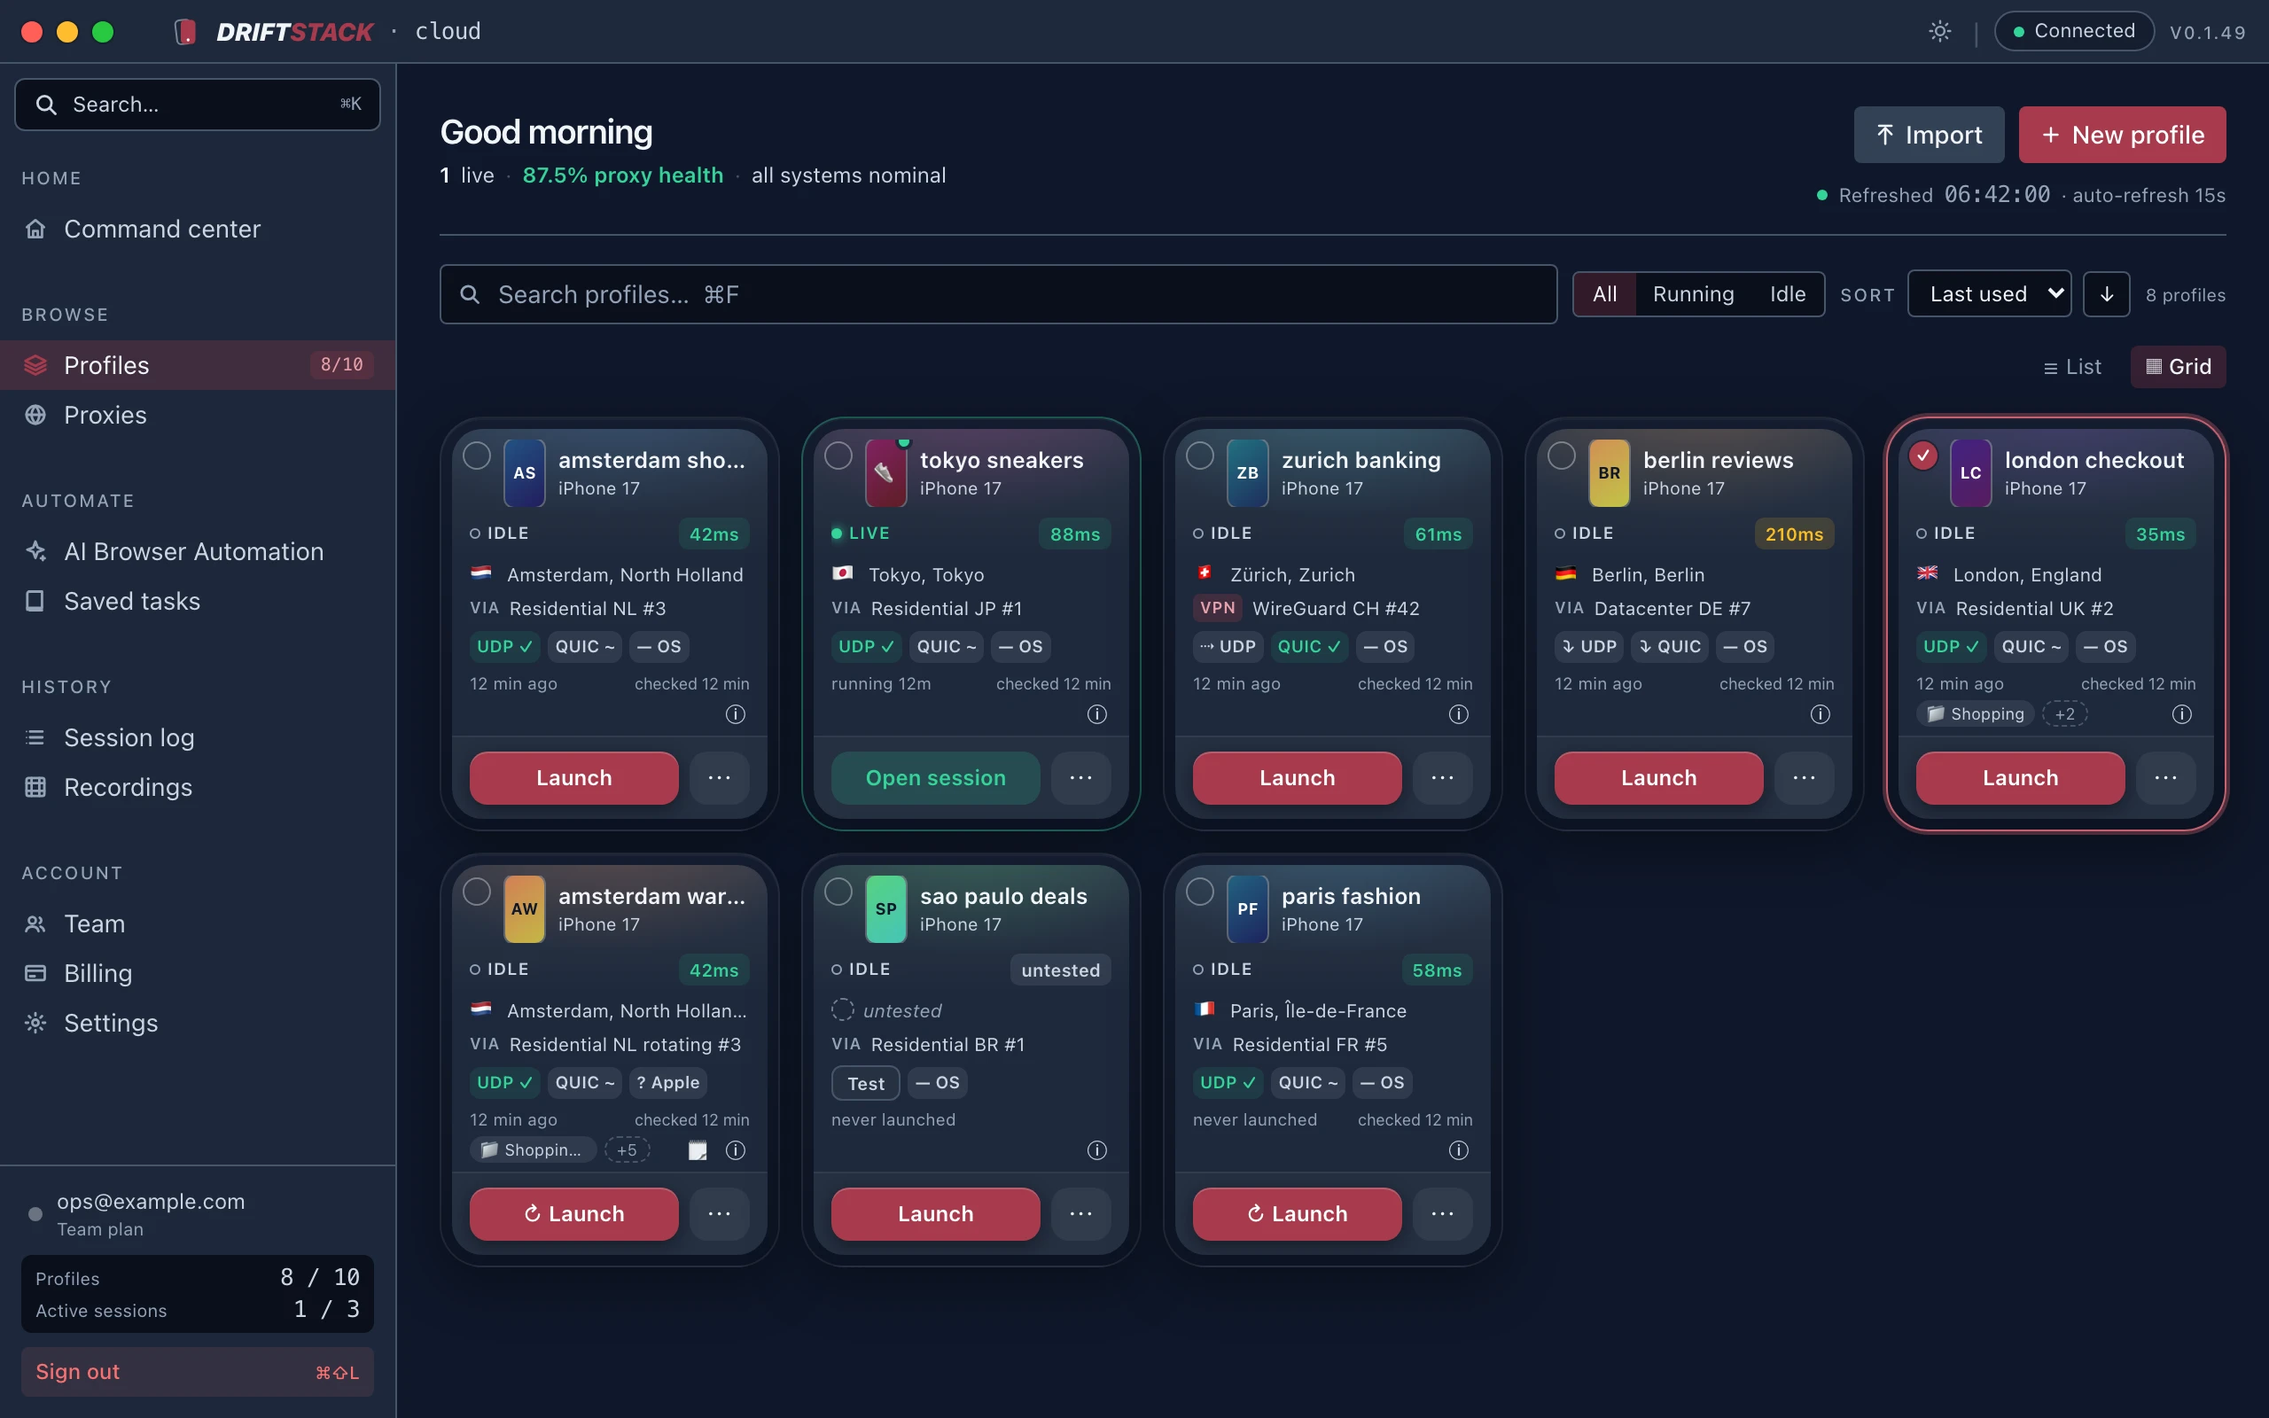
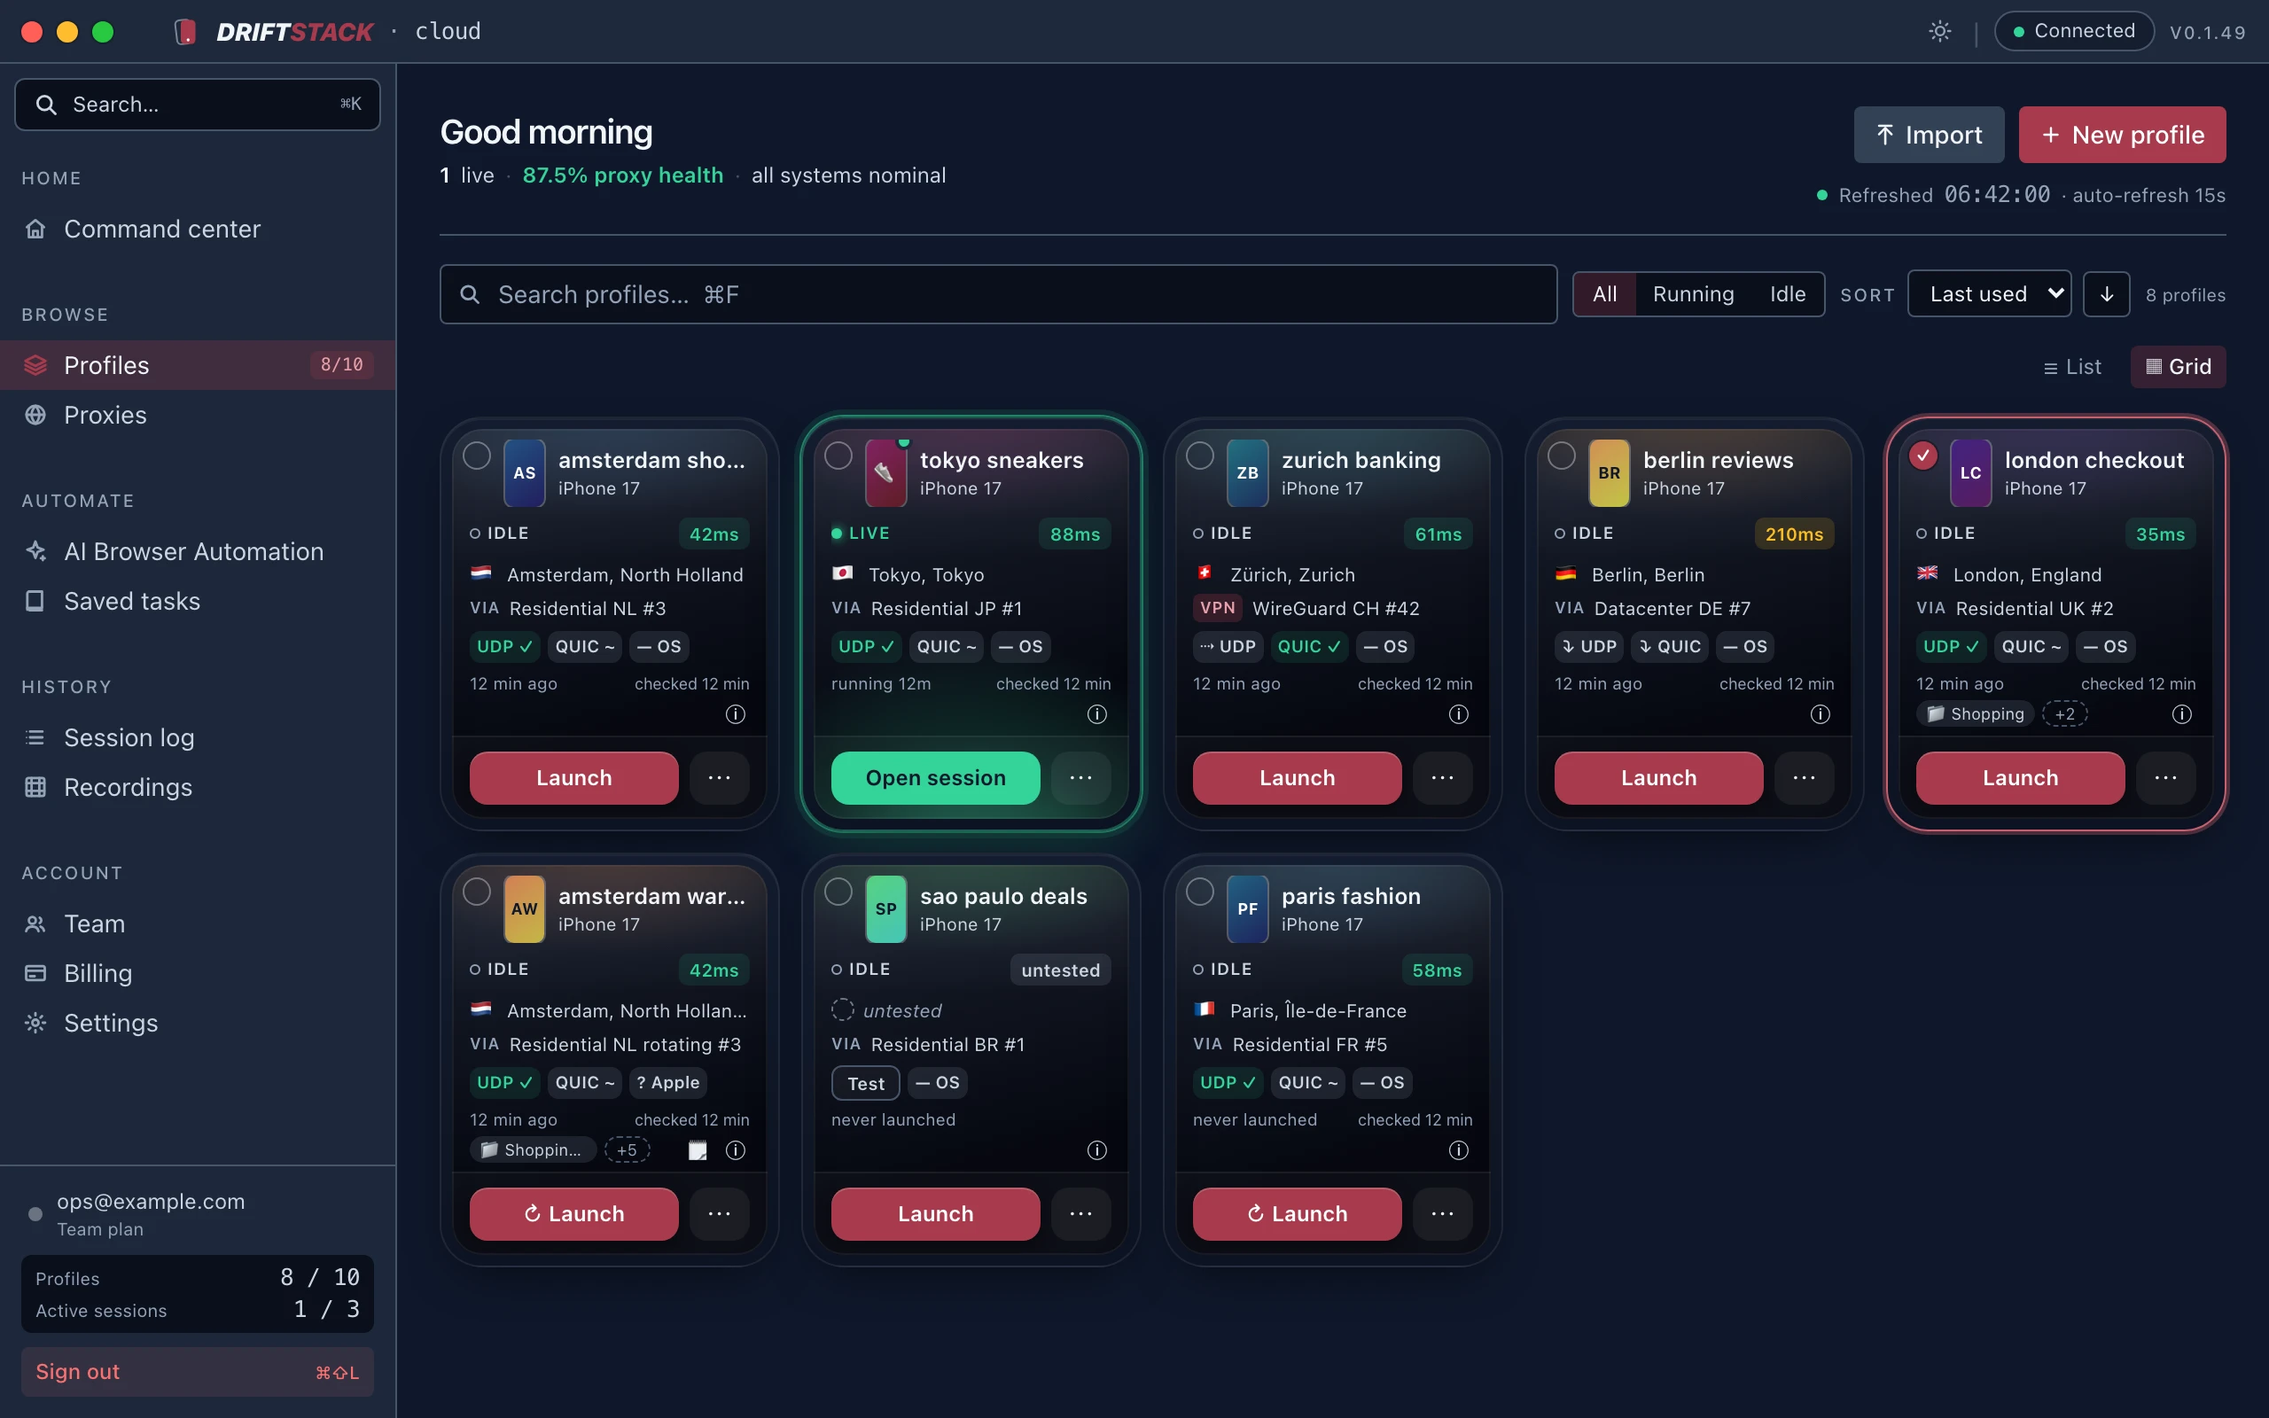
feat(gui): a profile card is a lit stage, and only the live one breathes
The Profiles grid is the product's front door and its cards were flat: an inline
slate gradient, a static identity wash, a hairline ring, state only in a text
pill. Each card now wears the AI view's devices on its own scale. The phone
screen is dark glass in both themes. The card carries one state light, read by
its rim, by a pool of light rising in the glass and by a floor glow on the page
beneath it: the ready colour when a session is live, the accent while launching
or testing, the attention colour when the proxy failed its last test, and no
light at all when the card rests. Only a live card breathes, and only its pool,
by opacity alone, so a grid of twenty idle cards animates nothing and the global
reduced-motion clamp stills the one that does. Colour is never the only signal:
the health pill, the status row and the dock's label say the same thing.

The live card's button becomes solid ready with the surface colour as its ink,
the AI view's own status stamp, because the tint it wore measured under the
contrast bar in the light theme once the card had a stage. The card's shadow is
written into the framework's own shadow slot rather than box-shadow, so the
selected state's ring still composes over it; the card's frame test now pins the
gradient from the stylesheet and the light attribute per state. The card gate
gains one documented allowance: the decorative floor light may sit past the
card's edge, because it carries nothing a customer could lose. The site's
[…]

Changed region(s): [[0.1875, 0.3438, 1.0, 0.5938], [0.1875, 0.625, 0.6562, 0.9062], [0.4688, 0.2812, 0.5, 0.3125]]

diff --git a/apps/gui-client/src/styles/index.css b/apps/gui-client/src/styles/index.css
@@ -4744,3 +4744,120 @@
    nothing further to declare here. It already tracks `--sim-light-rgb`, so
    it dims/mutes on `[data-sim-state='ended']` for free, the same way the
    rim and the outer glow do, with no separate opacity rule needed. */
+
+/* ═════ the Profiles card as a stage — redesign round 2 ════════════════════
+   The AI view drew the phone's state as light and gave every surface one lift;
+   the simulator window followed. The Profiles grid is the product's front
+   door, and its cards were flat: an inline slate gradient, a static identity
+   wash, a hairline ring, state only in a text pill. Here the card wears the
+   same devices, re-expressed on the card's own scale:
+
+   · `data-card-light` on the card is ONE variable read by the rim, the glow
+     under the screen and the floor pool — the `--sim-light-rgb` idea. live =
+     ready, launching/testing = accent (something is happening), a broken proxy
+     = busy (attention), idle = none (the card RESTS: no light, no motion).
+   · `.pf-screen` is a dark glass stage in BOTH themes (the AI view's room
+     rule): a slate gradient, an inset rim, and — only with a light — a pool
+     rising from the bottom edge in the state colour.
+   · only a LIVE card breathes, and only its pool (one compositor layer per
+     live card, none for the rest — a grid of twenty idle cards animates
+     nothing). The keyframe is `ds-ai-breathe-soft` BY NAME, so the global
+     reduced-motion clamp stills it like every other breath.
+   · every colour is a token on the mode/accent axes; the only literals are
+     the stage's own neutral darks and the black/white of a shadow (the same
+     rule `.ai-stage` and `.sim-device` follow, and the same guard reads it).
+   Nothing here moves a box: the card's padding, radius, the 220px screen and
+   the fixed body rows are exactly what the layout gates measured before. */
+.pf-card {
+  --pf-light-rgb: 0 0 0;
+  --pf-light-alpha: 0;
+  background: linear-gradient(180deg, rgb(20 28 47), rgb(12 19 34));
+  /* The shadow is written into Tailwind's OWN shadow slot, not box-shadow: the
+     card's selected state is a `ring-2` (a box-shadow layer Tailwind composes
+     from `--tw-ring-shadow` + `--tw-shadow`), and a plain box-shadow here
+     would erase it — the exact regression the card's frame test pins. The
+     hover utility sets the same slot with higher specificity, so the deepening
+     hover shadow still wins on hover. */
+  --tw-shadow:
+    inset 0 1px 0 rgb(255 255 255 / 0.05), 0 10px 30px -14px rgb(0 0 0 / 0.8),
+    0 0 0 1px rgb(var(--pf-light-rgb) / calc(var(--pf-light-alpha) * 0.55)),
+    0 0 0 4px rgb(var(--pf-light-rgb) / calc(var(--pf-light-alpha) * 0.12)),
+    0 16px 34px -16px rgb(var(--pf-light-rgb) / calc(var(--pf-light-alpha) * 0.45));
+  --tw-shadow-colored: var(--tw-shadow);
+  transition:
+    transform 150ms var(--ai-ease),
+    box-shadow var(--ai-dur-shift) var(--ai-ease);
+}
+.pf-card[data-card-light='live'] {
+  --pf-light-rgb: var(--status-ready-rgb);
+  --pf-light-alpha: 1;
+}
+.pf-card[data-card-light='busy'] {
+  --pf-light-rgb: var(--accent-rgb);
+  --pf-light-alpha: 1;
+}
+.pf-card[data-card-light='attention'] {
+  --pf-light-rgb: var(--status-busy-rgb);
+  --pf-light-alpha: 0.8;
+}
+/* the screen: glass in a dark room, whatever the window's theme */
+.pf-screen {
+  background: linear-gradient(165deg, rgb(27 33 48), rgb(6 8 16) 72%);
+  box-shadow:
+    inset 0 0 0 1px rgb(255 255 255 / 0.06),
+    inset 0 12px 26px -18px rgb(0 0 0 / 0.9);
+}
+/* the pool of light under the glass, rising from the bottom edge */
+.pf-screen::after {
+  content: '';
+  position: absolute;
+  inset: 0;
+  pointer-events: none;
+  z-index: 1;
+  border-radius: inherit;
+  background: radial-gradient(
+    120% 90% at 50% 118%,
+    rgb(var(--pf-light-rgb) / 0.55) 0%,
+    rgb(var(--pf-light-rgb) / 0.16) 42%,
+    transparent 72%
+  );
+  opacity: var(--pf-light-alpha);
+  transition: opacity var(--ai-dur-shift) var(--ai-ease);
+}
+/* The breath is OPACITY ONLY. `ds-ai-breathe-soft` also scales, and a scaled
+   layer inside the screen's overflow grew its scroll box by a pixel — the
+   card gate read it as clipped content and a displaced dock. Opacity is a
+   compositor property and moves no box; the global reduced-motion clamp
+   stills it like every other animation. */
+@keyframes ds-pf-breathe {
+  0%,
+  100% {
+    opacity: 1;
+  }
+  50% {
+    opacity: 0.66;
+  }
+}
+.pf-card[data-card-light='live'] .pf-screen::after {
+  animation: ds-pf-breathe 2600ms ease-in-out infinite;
+}
+/* the floor: light pooled on the page under a lit card */
+.pf-floor {
+  position: absolute;
+  left: 50%;
+  bottom: -8px;
+  width: 78%;
+  height: 30px;
+  margin-left: -39%;
+  border-radius: 50%;
+  pointer-events: none;
+  z-index: -1;
+  filter: blur(2px);
+  background: radial-gradient(
+    closest-side,
+    rgb(var(--pf-light-rgb) / 0.5),
+    rgb(var(--pf-light-rgb) / 0)
+  );
+  opacity: var(--pf-light-alpha);
+  transition: opacity var(--ai-dur-shift) var(--ai-ease);
+}

diff --git a/apps/gui-client/src/components/ProfilePhoneCard.tsx b/apps/gui-client/src/components/ProfilePhoneCard.tsx
@@ -2170,6 +2170,18 @@ export function ProfilePhoneCard(p: ProfilePhoneCardProps): JSX.Element {
 
   const pill = healthPill(p);
   const mode = capsMode(p);
+  // Round 2 — the ONE light the card wears (`.pf-card[data-card-light]`):
+  // live = ready; launching or testing = accent (something is happening);
+  // a proxy that failed its last test = attention; otherwise the card rests
+  // with no light and no motion. Colour is never the only signal: the health
+  // pill, the dock's label and the status row say the same thing in words.
+  const cardLight: 'live' | 'busy' | 'attention' | 'idle' = p.running
+    ? 'live'
+    : p.launching || p.testing
+      ? 'busy'
+      : mode === 'repair'
+        ? 'attention'
+        : 'idle';
   const chips = visibleChips(p, contentWidth);
   // Mode C has no SOCKS5 verdict, but the row's standing facts (a tunnel carries
   // UDP; why the OS stack cannot be read) are still true before any test — they
@@ -2404,20 +2416,24 @@ export function ProfilePhoneCard(p: ProfilePhoneCardProps): JSX.Element {
       // composes with every shadow utility; running = a mint frame visible
       // from across the grid. Focus: a solid ring at 2px offset (the global
       // 40%-alpha outline composited to 1.4:1 — invisible).
-      className={`group relative cursor-pointer rounded-[24px] border p-1.5 transition-[transform,box-shadow,border-color] duration-150 hover:-translate-y-0.5 hover:shadow-[inset_0_1px_0_rgba(255,255,255,0.06),0_18px_40px_rgba(0,0,0,0.45)] focus-visible:outline-none focus-visible:ring-2 focus-visible:ring-accent-hover focus-visible:ring-offset-2 focus-visible:ring-offset-surface-base ${
+      className={`pf-card group relative cursor-pointer rounded-[24px] border p-1.5 transition-[transform,box-shadow,border-color] duration-150 hover:-translate-y-0.5 hover:shadow-[inset_0_1px_0_rgba(255,255,255,0.06),0_18px_40px_rgba(0,0,0,0.45)] focus-visible:outline-none focus-visible:ring-2 focus-visible:ring-accent-hover focus-visible:ring-offset-2 focus-visible:ring-offset-surface-base ${
         p.selected
           ? 'border-accent-hover ring-2 ring-accent-hover/35 shadow-[inset_0_1px_0_rgba(255,255,255,0.04),0_10px_30px_rgba(0,0,0,0.35)]'
           : p.running
             ? 'border-status-ready/35 shadow-[inset_0_1px_0_rgba(255,255,255,0.04),0_10px_30px_rgba(0,0,0,0.35)]'
             : 'border-white/[0.08] shadow-[inset_0_1px_0_rgba(255,255,255,0.04),0_10px_30px_rgba(0,0,0,0.35)]'
       }`}
-      style={{ background: 'linear-gradient(180deg,#141c2f,#0c1322)' }}
+      // Round 2 — the card's state as ONE light (see `.pf-card` in index.css):
+      // the rim, the pool under the glass and the floor read this attribute.
+      data-card-light={cardLight}
     >
+      {/* the floor: light pooled on the page under a lit card */}
+      <span aria-hidden="true" data-component="card-floor" className="pf-floor" />
       {/* SCREEN — a FIXED 220px of glass (Phase B: no aspect ratio, so the
           card's height depends on neither its width nor its state). */}
       <div
         data-component="phone-screen"
-        className="relative flex h-[220px] min-w-0 flex-col overflow-hidden rounded-[17px] bg-surface-raised"
+        className="pf-screen relative flex h-[220px] min-w-0 flex-col overflow-hidden rounded-[17px] bg-surface-raised"
       >
         {/* F3 — inline note editor overlay. Floats over the screen so it never
             reshapes the card; stops propagation so typing/saving never toggles
@@ -3344,7 +3360,7 @@ export function ProfilePhoneCard(p: ProfilePhoneCardProps): JSX.Element {
             type="button"
             className={`h-[30px] min-w-0 flex-1 truncate whitespace-nowrap rounded-[10px] px-1 py-0 text-center text-[12px] font-semibold leading-[30px] transition-colors focus-visible:outline-none focus-visible:ring-2 focus-visible:ring-accent-hover focus-visible:ring-offset-2 focus-visible:ring-offset-surface-raised ${
               p.running
-                ? 'bg-status-ready/[0.18] text-status-ready enabled:hover:bg-status-ready/25 disabled:opacity-50'
+                ? 'bg-status-ready text-surface-base enabled:hover:brightness-110 disabled:opacity-50'
                 : p.launching
                   ? 'cursor-progress bg-ink-muted/15 text-ink-secondary'
                   : 'bg-accent text-white shadow-[0_3px_10px_rgba(0,0,0,0.4),inset_0_1px_0_rgba(255,255,255,0.18)] enabled:hover:bg-accent-fill-hover disabled:opacity-50'

diff --git a/apps/gui-client/tests/unit/profile-phone-card.test.tsx b/apps/gui-client/tests/unit/profile-phone-card.test.tsx
@@ -3200,9 +3200,21 @@ describe("P2 — frame, screen, thumbnail, status, dock: the comp's chrome on th
     expect(classes(article())).not.toContain('hover:shadow-xl');
     expect(classes(article())).not.toContain('border-[#0a0d12]');
     expect(classes(article())).not.toContain('transition-all');
-    expect(article().getAttribute('style')).toContain('180deg');
+    // Round 2 — the slate gradient moved from an inline style into `.pf-card`
+    // (index.css), where the card's state light lives beside it; the article
+    // carries the class and no inline background. The gradient itself is
+    // pinned from the stylesheet so the frame cannot quietly go flat.
+    expect(article().getAttribute('style')).toBeNull();
+    expect(classes(article())).toContain('pf-card');
+    expect(article().getAttribute('data-card-light')).toBe('idle');
+    const css = readFileSync(resolve(__dirname, '../../src/styles/index.css'), 'utf8');
+    const pfCard = css.slice(css.indexOf('.pf-card {'), css.indexOf('.pf-card[data-card-light='));
+    expect(pfCard).toContain('linear-gradient(180deg');
+    expect(pfCard).toContain('--tw-shadow:');
+    expect(pfCard).not.toMatch(/^\s*box-shadow:/m);
     rerender(<ProfilePhoneCard {...props({ running: true })} />);
     expect(classes(article())).toContain('border-status-ready/35');
+    expect(article().getAttribute('data-card-light')).toBe('live');
     rerender(<ProfilePhoneCard {...props({ selected: true })} />);
     expect(classes(article())).toEqual(
       expect.arrayContaining([
@@ -3369,7 +3381,7 @@ describe("P2 — frame, screen, thumbnail, status, dock: the comp's chrome on th
     expect(thumb.style.backgroundColor).toBe(probe.style.backgroundColor);
     cleanup();
   });
-  it('the dock: a white/6% hairline; Launch is a 30px 12px block titled with a sentence; live → mint tint, launching → the neutral busy button at FULL opacity (only launchDisabled dims); ⋯ is a borderless white/6% fill; both wear the solid focus ring', () => {
+  it('the dock: a white/6% hairline; Launch is a 30px 12px block titled with a sentence; live → solid ready, launching → the neutral busy button at FULL opacity (only launchDisabled dims); ⋯ is a borderless white/6% fill; both wear the solid focus ring', () => {
     const { container, rerender } = render(<ProfilePhoneCard {...props()} />);
     const dock = byComponent(container, 'card-dock') as HTMLElement;
     expect(classes(dock)).toContain('border-white/[0.06]');
@@ -3400,9 +3412,14 @@ describe("P2 — frame, screen, thumbnail, status, dock: the comp's chrome on th
     expect(classes(more)).not.toContain('border');
     expect(classes(more)).not.toContain('border-surface-divider');
     rerender(<ProfilePhoneCard {...props({ running: true })} />);
+    // Round 2 — the live button is SOLID ready with the surface colour as its
+    // ink (the AI view's own status stamp), not a tint with ready-coloured
+    // text: the tint measured 4.4:1 in the light theme once the card wore its
+    // stage, and the mockup draws it solid anyway.
     expect(classes(launch())).toEqual(
-      expect.arrayContaining(['bg-status-ready/[0.18]', 'text-status-ready']),
+      expect.arrayContaining(['bg-status-ready', 'text-surface-base']),
     );
+    expect(classes(launch())).not.toContain('bg-status-ready/[0.18]');
     expect(classes(launch())).not.toContain('border');
     expect(launch().getAttribute('title')).toBe('Open the running session');
     rerender(<ProfilePhoneCard {...props({ busy: true, launching: true })} />);
